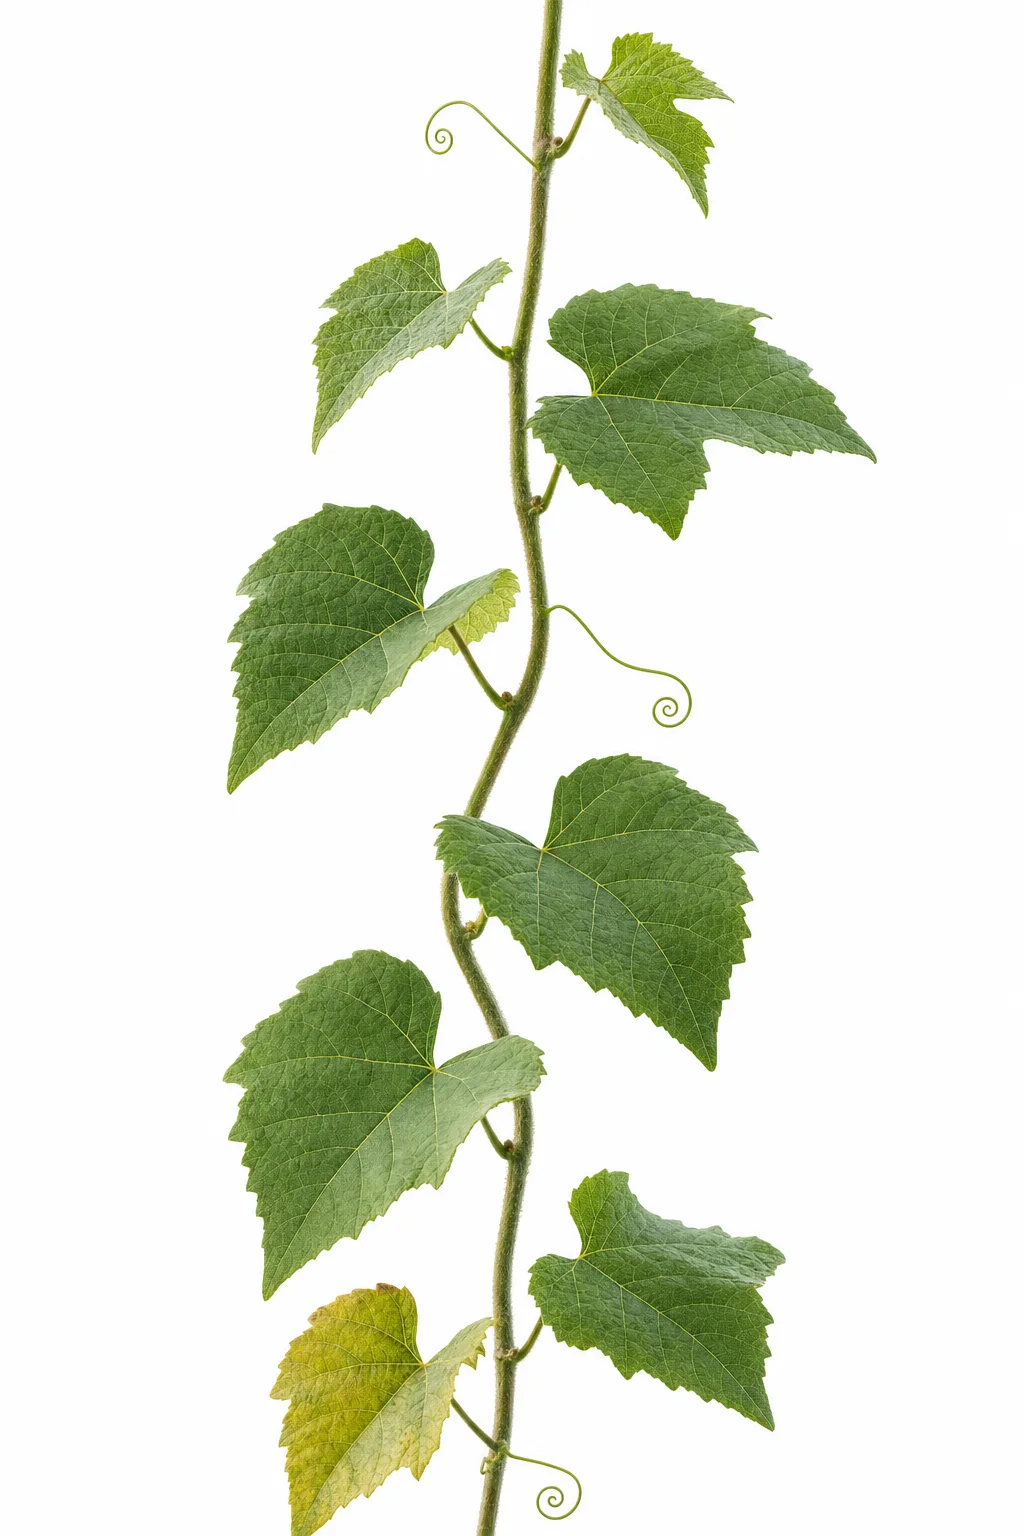
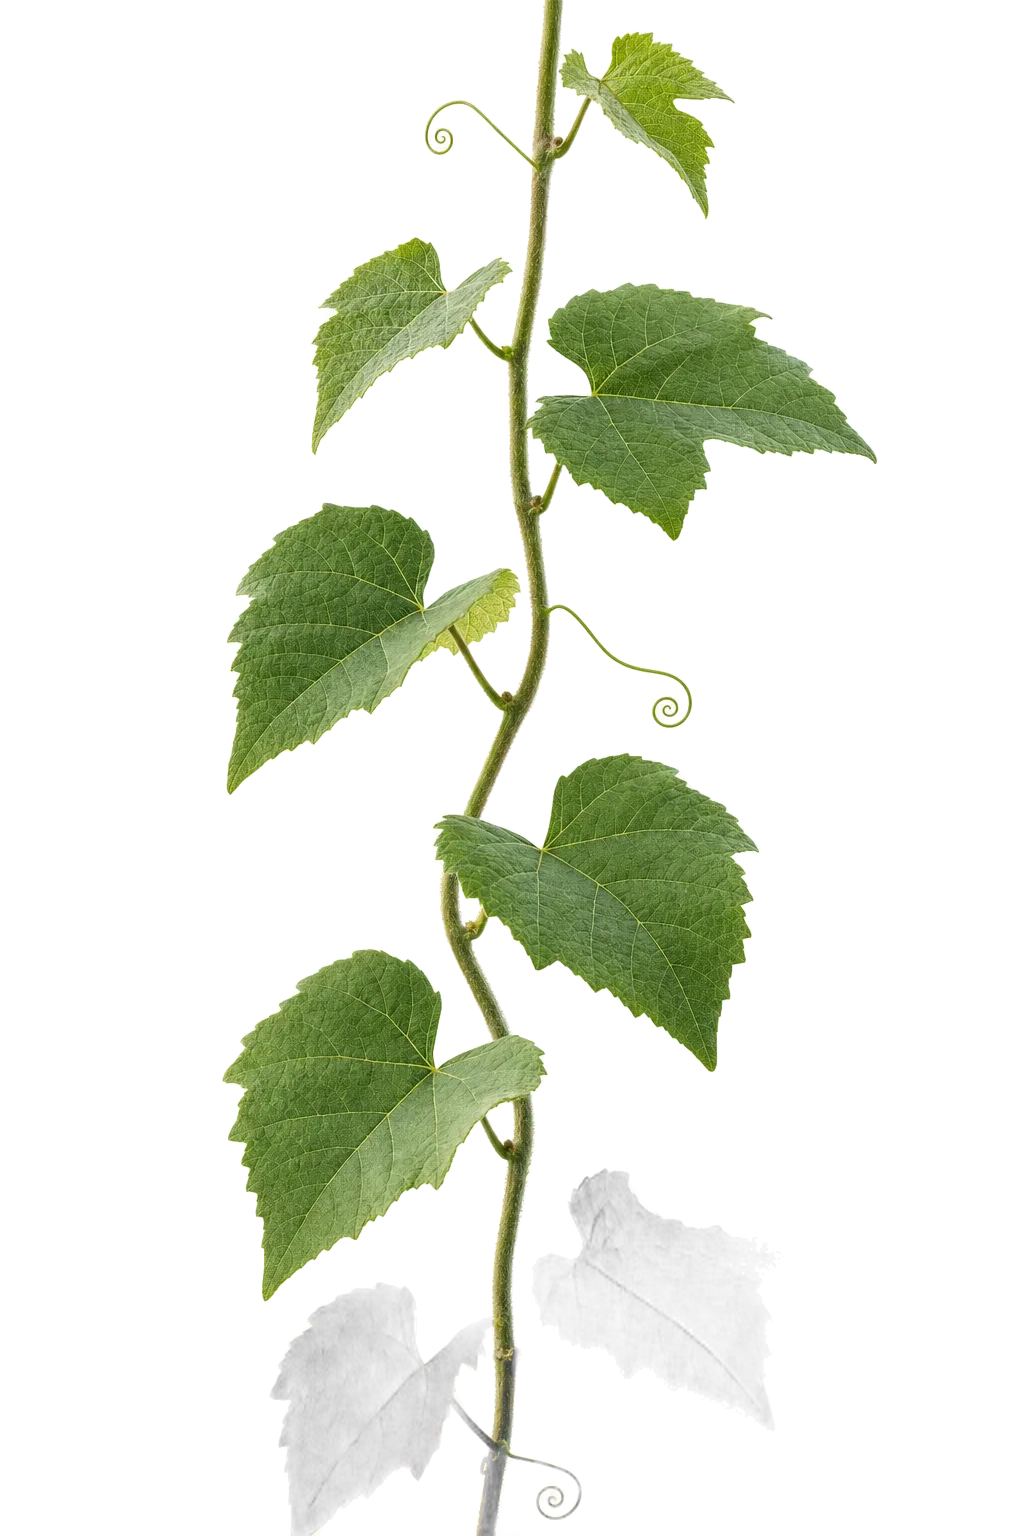
fix(gastronomia): la enredadera no estaba recortada, no crecia y cortaba palabras
EL RECORTE. Las diez piezas venian en RGB sobre fondo casi blanco (254,254,254),
sin canal alfa, y la pagina las recortaba con mix-blend-mode: multiply. Eso nunca
fue un recorte: es un truco que solo cierra si el fondo del render es blanco puro
y el papel es mas oscuro, y ninguna de las dos cosas se cumplia. Quedaba el
rectangulo marcado y el verde se ensuciaba contra el beige.

Ahora tienen alfa de verdad. tools/cortar-plantas.py saca la mascara con rembg y
descontamina el blanco del borde despejando la composicion sobre blanco. Se
probaron los dos caminos sobre el romero: unmultiply dejaba 1,8% opaco y la
planta salia lavada, porque sirve para tinta y no para una foto de un render
opaco; rembg deja 14,4% opaco con el borde limpio. Medido despues: la banda pinta
28,2% de su ancho, cero filas llenas, cero pixeles fuera de la banda.

EL CRECIMIENTO. No habia. Ahora cada tramo se descubre de arriba hacia abajo con
clip-path, no con scaleY, que estiraria el dibujo. La primera version uso un
IntersectionObserver por tramo y dejaba huecos: el observador muestrea por cuadro
y un tramo que cruza la pantalla entera en un cuadro nunca llega a intersecar.
Medido tras un salto de scroll: 13 de 23 tramos ya pasados seguian sin crecer. Se
reemplazo por un puntero contra la posicion del scroll, que no puede saltearse
ninguno y cuesta una comparacion por cuadro en vez de ciento veinte observadores.

LAS PALABRAS CORTADAS. Optimizamos medía 149 pixeles en una columna de 118. La
[…]

Changed region(s): [[0.25, 0.75, 0.7812, 1.0], [0.5312, 0.9375, 0.5625, 1.0]]

diff --git a/gastronomia.css b/gastronomia.css
@@ -1139,43 +1139,59 @@ html:not(.js) [data-revela] { opacity: 1; transform: none; }
 .planta-cadena {
   position: absolute;
   top: -3%;
-  /* Centrado con `left` y no con `transform: translateX(-50%)`. UN TRANSFORM CREA
-     CONTEXTO DE APILADO, y adentro de un contexto propio el `mix-blend-mode: multiply`
-     de los tramos se mezcla contra un fondo transparente en vez de contra el papel: el
-     blanco del render deja de desaparecer y queda una banda casi blanca por todo el
-     margen. Medido: el papel es (242,233,221) y ahi salia (251,249,247).
-
-     Es la segunda vez que el mismo mecanismo rompe esta misma mezcla en esta pagina; la
-     primera fue un `z-index: 0`. Cualquier cosa que aisle rompe el multiply. */
   left: -2%;
   width: 104%;
   display: flex;
   flex-direction: column;
 }
+
+/* Las plantas ahora tienen canal alfa de verdad (`tools/cortar-plantas.py`).
+
+   Antes venian sobre fondo casi blanco y se "recortaban" con `mix-blend-mode: multiply`.
+   Eso nunca fue un recorte: era un truco que solo cierra si el fondo del render es
+   blanco puro y el papel es mas oscuro, y ninguna de las dos cosas se cumplia. Quedaba
+   el rectangulo del fondo marcado, el verde se ensuciaba contra el beige y los
+   degradados suaves del render se veian como una nube gris.
+
+   Y el truco costaba caro: el multiply se rompe adentro de cualquier contexto de
+   apilado, asi que la pagina no podia usar `transform` ni `z-index` en ninguna parte de
+   la enredadera. Ya la habia roto dos veces. Con alfa real esa restriccion desaparece,
+   que es justamente lo que permite que el tallo crezca de verdad mas abajo. */
 .planta-tramo {
   width: 100%;
   height: auto;
   margin-top: -5.5%;
   transform: translateX(var(--corr, 0px));
-  mix-blend-mode: multiply;
-  /* Un punto por debajo del negro para que la planta se lea como fondo y el texto
-     siga ganando la primera mirada. */
-  opacity: 0.82;
+  opacity: 0.9;
+  /* El tallo CRECE: se revela de arriba hacia abajo, como crece una planta.
+
+     Con `clip-path` y no con `scaleY`. Un scaleY estira el dibujo mientras avanza y el
+     tallo se ve de goma; el clip descubre la imagen a su tamanio real, que es lo que
+     hace que se lea como crecimiento y no como deformacion. */
+  clip-path: inset(0 0 100% 0);
+  transition: clip-path 1.05s cubic-bezier(.33,.9,.4,1);
 }
+.planta-tramo.crecido { clip-path: inset(0 0 0 0); }
 .planta-tramo:first-child { margin-top: 0; }
 .planta-espejo { transform: translateX(var(--corr, 0px)) scaleX(-1); }
+
+/* Sin JavaScript el tallo tiene que estar entero: si no, no se ve nada. */
+html:not(.js) .planta-tramo { clip-path: none; transition: none; }
 
 /* --- las plantas que nacen --- */
 .planta {
   position: absolute;
   width: calc(clamp(120px, 14vw, 215px) * var(--esc, 1));
   height: auto;
-  mix-blend-mode: multiply;
   opacity: 0;
   /* El anclaje va del lado del tallo: una rama crece HACIA afuera desde donde nace, no
-     se infla desde su propio centro. */
-  transform: scale(0.55) rotate(var(--giro, 0deg));
-  transition: opacity 1.2s ease, transform 1.6s cubic-bezier(.22,.9,.28,1);
+     se infla desde su propio centro.
+
+     Brota desde casi nada y con el giro exagerado, que se acomoda al llegar: una rama
+     que sale no aparece derecha. La curva tiene un pico apenas arriba de 1 para que
+     asiente en vez de frenar en seco. */
+  transform: scale(0.2) rotate(calc(var(--giro, 0deg) * 3.5));
+  transition: opacity .9s ease, transform 1.7s cubic-bezier(.2,.9,.25,1.06);
 }
 .planta--der { right: 4%; transform-origin: 18% 82%; }
 .planta--izq { left: -8%; transform-origin: 82% 82%; }
@@ -1185,6 +1201,7 @@ html:not(.js) .planta { opacity: 0.95; transform: scale(1) rotate(var(--giro, 0d
 
 @media (prefers-reduced-motion: reduce) {
   .planta { transition: none; opacity: 0.95; transform: scale(1) rotate(var(--giro, 0deg)); }
+  .planta-tramo { transition: none; clip-path: none; }
 }
 
 @media (max-width: 900px) {
@@ -1888,6 +1905,32 @@ html:not(.js) .planta { opacity: 0.95; transform: scale(1) rotate(var(--giro, 0d
 
   /* La foto del precio se llevaba media pantalla sin decir nada nuevo. */
   .precio-foto img { max-height: 220px; }
+
+  /* PALABRAS CORTADAS. Medido: el h3 "Optimizamos" mide 149 pixeles y su columna 118,
+     asi que la palabra salia del bloque. Lo mismo en cuatro lugares mas.
+
+     La causa no era la tipografia sino que estas dos secciones seguian en dos columnas
+     en el telefono. Las dos YA tenian su regla de colapsar a una sola columna, y las dos
+     estaban muertas: mas abajo en la hoja hay reglas sin media query que redefinen las
+     mismas propiedades, y a igual especificidad gana la ultima, este dentro de un
+     `@media` o no. `.como-grid` se colapsaba en la linea 1529 y volvia a dos columnas en
+     la 1591.
+
+     Se fuerza aca, que es el final del archivo, en vez de mover aquellas reglas: son las
+     que valen de 640 para arriba y tocarlas cambiaria el escritorio.
+
+     Y hace falta nombrar `:nth-child(even)` aparte. Los pasos pares invierten la
+     plantilla para alternar el lado de la foto, con una regla de mas especificidad que
+     `.tiempo`, asi que colapsar `.tiempo` solo no los alcanzaba. Ese detalle explica por
+     que se cortaban justo "02 Optimizamos" y "04 Capacitamos" y no los impares. */
+  .tiempo, .tiempo:nth-child(even), .tiempos li, .como-grid { grid-template-columns: 1fr; }
+  .tiempo-texto { max-width: none; }
+  .tiempo:nth-child(even) > figure { order: 0; }
+
+  /* Y una red por si alguna palabra larga sigue sin entrar en el futuro: que parta con
+     guion segun las reglas del castellano en vez de desbordar. El `lang="es"` del
+     documento es lo que hace que el navegador sepa donde puede cortar. */
+  h1, h2, h3, .ent-texto h3, .pasos h3 { hyphens: auto; overflow-wrap: break-word; }
 }
 
 /* Pantallas angostas de verdad. El borde de 16 deja 358 de columna util en un 390, que

diff --git a/gastronomia.js b/gastronomia.js
@@ -510,6 +510,71 @@
       frag.appendChild(copia);
     }
     cadena.appendChild(frag);
+
+    // Los clones nacen despues de que arranco el crecimiento. Se avisa para que el
+    // puntero los tome en cuenta; si no, el tallo se corta justo donde empiezan.
+    if (env._tallo) env._tallo.revisar();
+  }
+
+  function mostrarTalloEntero(env) {
+    var tramos = env.querySelectorAll('.planta-tramo');
+    for (var i = 0; i < tramos.length; i++) tramos[i].classList.add('crecido');
+  }
+
+  /* El tallo crece hasta donde llegaste leyendo.
+
+     La primera version usaba un IntersectionObserver por tramo. Se veia bien
+     scrolleando despacio y dejaba huecos en cuanto el scroll saltaba: el observador
+     muestrea por cuadro, y un tramo que pasa de abajo de la pantalla a arriba de la
+     pantalla dentro del mismo cuadro nunca llega a estar intersecando, asi que nunca
+     crecia. Medido despues de un scrollIntoView: 13 de 23 tramos ya pasados seguian sin
+     crecer, y el tallo quedaba cortado en pedazos.
+
+     Un anchor en la url, volver atras con el scroll restaurado o simplemente arrastrar
+     rapido la barra producen lo mismo. El observador es la herramienta equivocada para
+     esto: la pregunta no es "esta a la vista", es "ya lo pasaste", y eso es una
+     comparacion contra la posicion del scroll, no un evento.
+
+     Los tramos estan en orden en el DOM, asi que alcanza con un puntero que avanza y
+     nunca vuelve: cada cuadro cuesta una comparacion, no ciento veinte. */
+  function crecerTallo(env) {
+    var tramos = [].slice.call(env.querySelectorAll('.planta-tramo'));
+    if (!tramos.length) return null;
+
+    var i = 0;
+    var pedido = false;
+
+    function avanzar() {
+      pedido = false;
+      // El frente va un poco arriba del borde inferior: si creciera justo en el borde,
+      // el tramo terminaria de dibujarse cuando ya paso y no se veria crecer nunca.
+      var frente = window.scrollY + window.innerHeight * 0.92;
+      while (i < tramos.length) {
+        var t = tramos[i];
+        if (t.getBoundingClientRect().top + window.scrollY > frente) break;
+        t.classList.add('crecido');
+        i++;
+      }
+    }
+
+    function alScroll() {
+      if (pedido) return;
+      pedido = true;
+      window.requestAnimationFrame(avanzar);
+    }
+
+    window.addEventListener('scroll', alScroll, { passive: true });
+    window.addEventListener('resize', alScroll, { passive: true });
+    avanzar();
+
+    // El top-up agrega tramos al final DESPUES de esto, y no estaban en la lista que se
+    // tomo recien: hay que volver a leerla o los clones no crecen nunca.
+    return {
+      revisar: function () {
+        tramos = [].slice.call(env.querySelectorAll('.planta-tramo'));
+        avanzar();
+      }
+    };
   }
 
   function montarEnredadera() {
@@ -525,8 +590,11 @@
 
     if (quieto.matches || !('IntersectionObserver' in window)) {
       plantas.forEach(function (el) { el.classList.add('visible'); });
+      mostrarTalloEntero(planta);
       return;
     }
+
+    planta._tallo = crecerTallo(planta);
 
     // Se usa un observador y no el scroll: cada planta crece cuando entra en pantalla y
     // se queda crecida. Antes esto recalculaba el avance del bloque entero en cada
